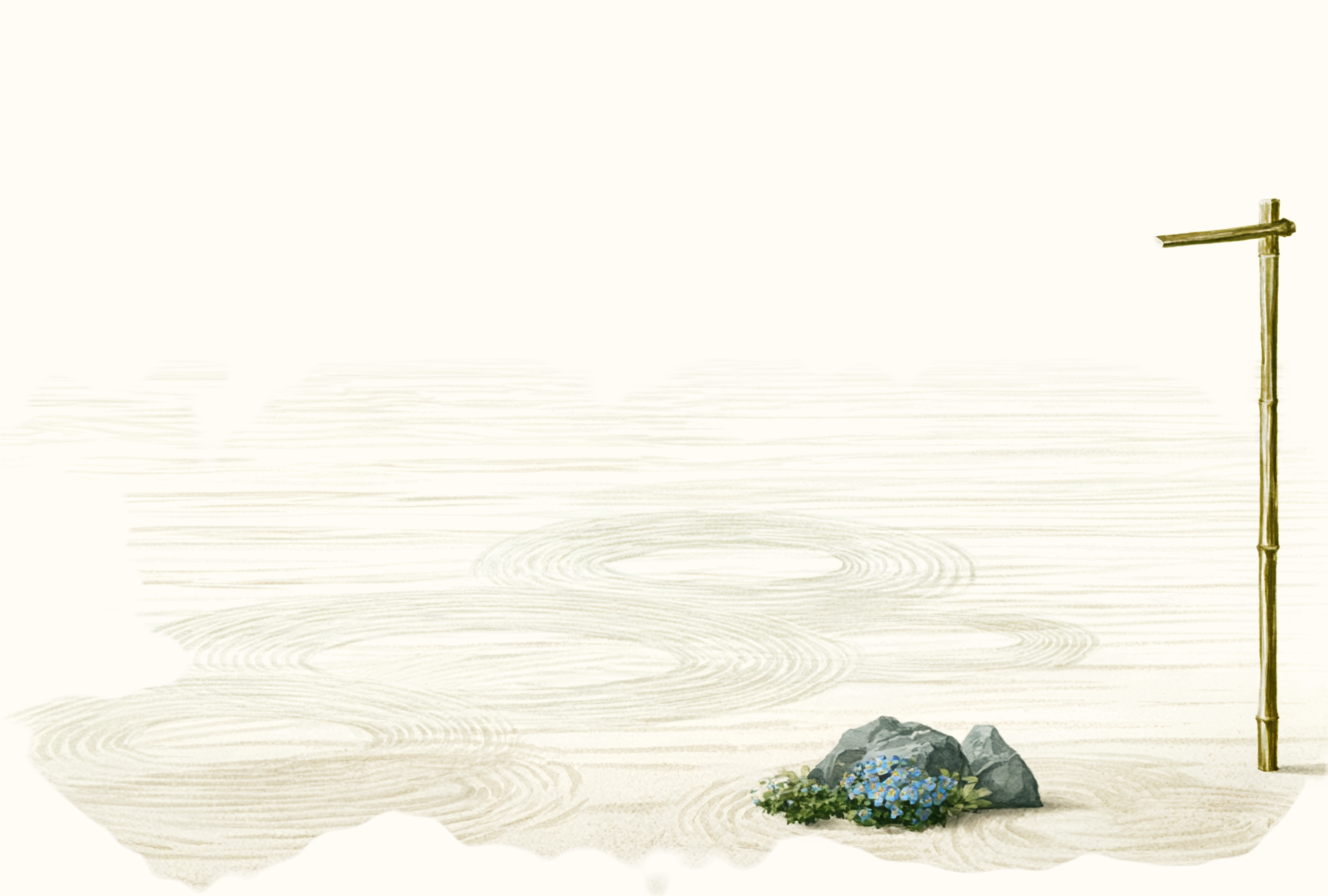
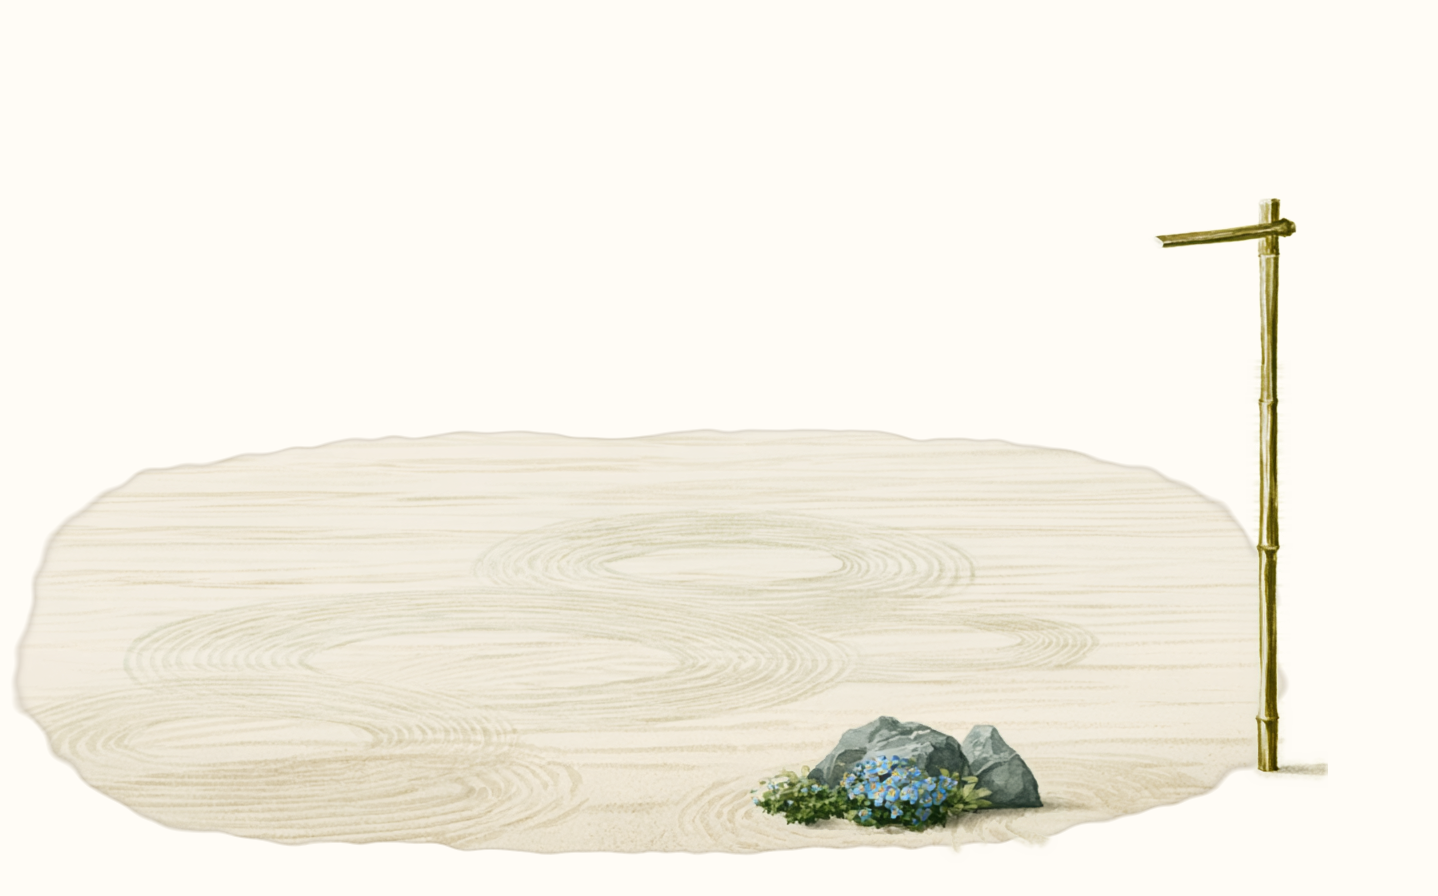
feat(app): Garden2 plate step 1 (garden terminal): clean sand rim, more sand left, 110 px paper right of the pole (R522)
Canvas 1328 -> 1438 wide (paper added on the right only; every plant box
unchanged). Tests follow the new width.

Changed region(s): [[0.0, 0.2188, 1.0, 1.0]]

diff --git a/app/tests/model/garden2.test.ts b/app/tests/model/garden2.test.ts
@@ -94,10 +94,10 @@ describe("the layer plan (draw order and positions from the approved export)", (
     expect(keys(allStages(0))).toEqual(["plate", "maple0", "store0", "stand", "mandarin0", "cords", "pothos0", "orchid0", "azalea0"]);
     expect(keys({})).toEqual(keys(allStages(0)));
   });
-  it("places every plant at its export box, the plate over the whole 1328 x 896 canvas", () => {
-    expect(CANVAS).toEqual({ w: 1328, h: 896 });
+  it("places every plant at its export box, the plate over the whole 1438 x 896 canvas (110 px of paper added right of the pole, R522b)", () => {
+    expect(CANVAS).toEqual({ w: 1438, h: 896 });
     const L = composeLayers(allStages(14));
-    expect(L[0]).toMatchObject({ kind: "plate", x: 0, y: 0, w: 1328, h: 896 });
+    expect(L[0]).toMatchObject({ kind: "plate", x: 0, y: 0, w: 1438, h: 896 });
     expect(L.find((l) => l.key === "maple")).toMatchObject({ x: 597, y: 446, w: 276, h: 263 });
     expect(L.find((l) => l.key === "store")).toMatchObject({ x: 618, y: 5, w: 639, h: 708 });
     expect(L.find((l) => l.key === "mandarin")).toMatchObject({ x: 143, y: 35, w: 637, h: 705 });
@@ -107,9 +107,9 @@ describe("the layer plan (draw order and positions from the approved export)", (
     expect(L.find((l) => l.key === "stand")).toMatchObject({ x: OVERLAYS.stand.x, y: OVERLAYS.stand.y });
   });
   it("scales every rect by one factor, the view keeping the canvas aspect", () => {
-    expect(viewHeight(1328)).toBe(896);
-    expect(viewHeight(412)).toBeCloseTo(277.976, 3);
-    expect(scaleRect({ x: 597, y: 446, w: 276, h: 263 }, 664)).toEqual({ x: 298.5, y: 223, w: 138, h: 131.5 });
+    expect(viewHeight(1438)).toBe(896);
+    expect(viewHeight(412)).toBeCloseTo(256.712, 3);
+    expect(scaleRect({ x: 597, y: 446, w: 276, h: 263 }, 719)).toEqual({ x: 298.5, y: 223, w: 138, h: 131.5 });
   });
 });
 
@@ -133,7 +133,7 @@ describe("the bundled layers", () => {
     expect(n).toBe(90);
   });
   it("has the plate at canvas size and each overlay at its box", () => {
-    expect(pngSize(path.join(ASSETS, "plate.png"))).toEqual({ w: 1328, h: 896 });
+    expect(pngSize(path.join(ASSETS, "plate.png"))).toEqual({ w: 1438, h: 896 });
     for (const k of ["stand", "cords"] as const) expect(pngSize(path.join(ASSETS, OVERLAYS[k].file))).toEqual({ w: OVERLAYS[k].w, h: OVERLAYS[k].h });
   });
   it("requires every layer in sources.ts", () => {

diff --git a/app/src/garden2/layout.ts b/app/src/garden2/layout.ts
@@ -1,6 +1,6 @@
 // GENERATED by scripts/garden2/export.py from brand/garden2/app-export (mockup v8). Do not edit by hand.
 
-export const CANVAS = { w: 1328, h: 896 } as const
+export const CANVAS = { w: 1438, h: 896 } as const
 /** Back to front (R490G-R497G placement). */
 export const DRAW_ORDER = ["maple", "store", "mandarin", "pothos", "orchid", "azalea"] as const
 export type Plant2 = (typeof DRAW_ORDER)[number]
